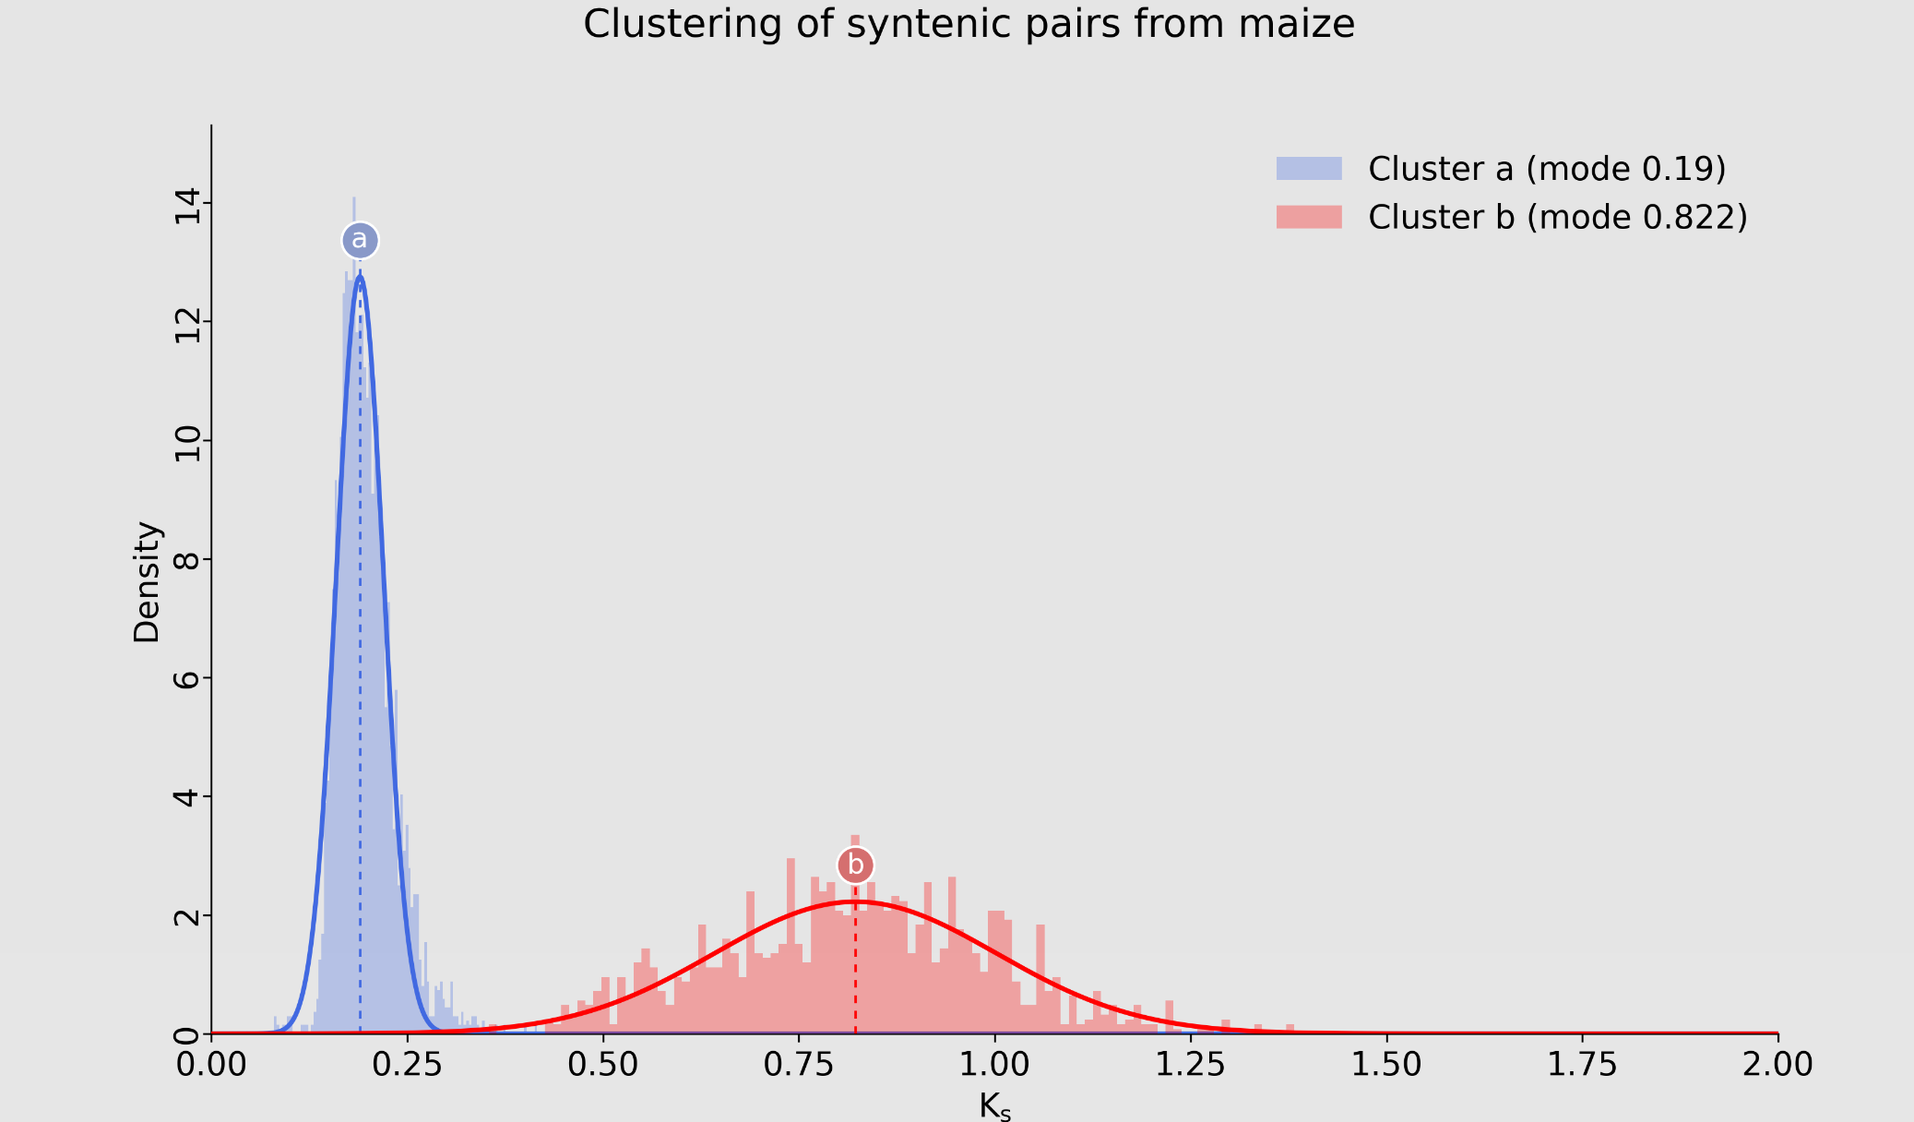
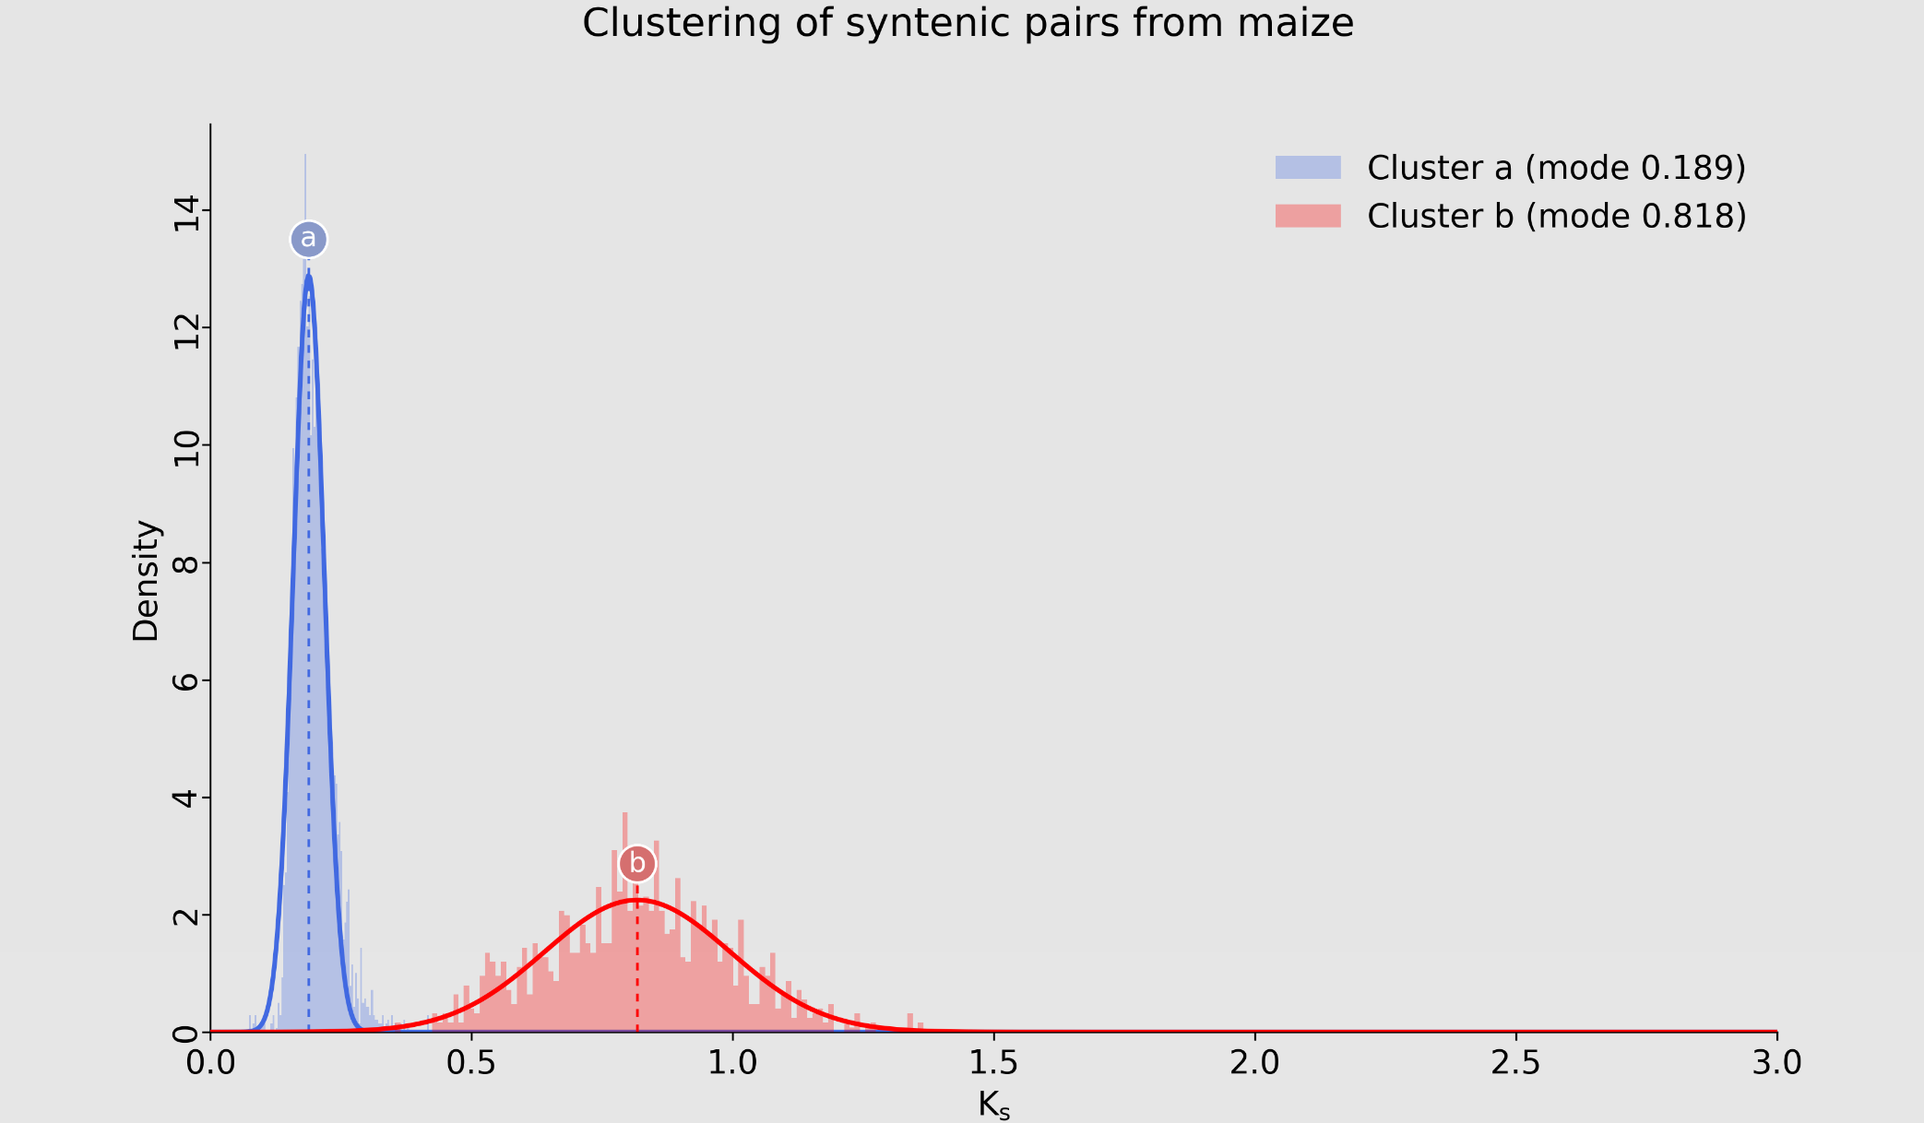
ks_pipeline default parameter; non-chr quality is low; add dotplot blank dot and rm to_rgb func; use best outgroup rather than mean;

diff --git a/quota_anchor/kspeaks/ks_fitting.py b/quota_anchor/kspeaks/ks_fitting.py
@@ -159,7 +159,7 @@ class Kf:
 
     @staticmethod
     def gmm(all_medians_list, n_wgds, max_iter=618, n_init=1):
-        # all_medians_list_logtransformed = np.log(all_medians_list)
+        #all_medians_list = np.log(all_medians_list)
         all_medians_list = np.array(all_medians_list)
         gmm = GaussianMixture(n_components=n_wgds, covariance_type="spherical", max_iter=max_iter, n_init=n_init)
         gmm.fit(all_medians_list.reshape(len(all_medians_list), 1))
@@ -347,8 +347,9 @@ class Kf:
             ctr = float(paras[1])
             # wgd marker zorder > histogram zorder > curve fitting line zorder
             _, _, patches = ax.hist(np.array(cluster_to_all_ks[cluster_id]), linewidth=2, bins=self.bins_number, alpha=0.3,
-                                    color=cluster_color[cluster_id][0], density=True, label=f"Cluster {cluster_color[cluster_id][1]} (mode {round(ctr, 3)})", zorder=zorder-8)
-            map_handle_label.append((patches[0], f"Cluster {cluster_color[cluster_id][1]} (mode {round(ctr, 3)})"))
+                                    color=cluster_color[cluster_id][0], density=True, label=f"Cluster {cluster_color[cluster_id][1]} (mode {round(ctr, 3):.3f})", zorder=zorder-8)
+            map_handle_label.append((patches[0], f"Cluster {cluster_color[cluster_id][1]} (mode {round(ctr, 3):.3f})"))
+
             cluster_info = self.determine_marker_position(cluster_id, paras, cluster_info)
             
             cluster_info[cluster_id].append(zorder-7)
@@ -486,18 +487,18 @@ class Kf:
             ax.set_ylim(-move_tick, y_max)
             ax.spines['left'].set_bounds(0, y_max)
 
-            to_plot = df[["Node", "Focal_Species", "Sister_Species", "Adjusted_Mode_Mean", "Adjusted_Mode_Mean_SD", "Original_Mode"]]
+            to_plot = df[["Node", "Focal_Species", "Sister_Species", "Adjusted_Mode_Best", "Adjusted_Mode_Best_SD", "Original_Mode"]]
             arrow_y = -gap_scale
             z_order = -10
             for index, row in to_plot.iterrows():
                 per_node_number = len(to_plot[to_plot["Node"] == row["Node"]])
                 z_order -= 2
-                node, focal_species, sister_species, mode, sd, original = row.at["Node"], row.at["Focal_Species"], row.at["Sister_Species"], row.at["Adjusted_Mode_Mean"], row.at["Adjusted_Mode_Mean_SD"], row.at["Original_Mode"]
+                node, focal_species, sister_species, mode, sd, original = row.at["Node"], row.at["Focal_Species"], row.at["Sister_Species"], row.at["Adjusted_Mode_Best"], row.at["Adjusted_Mode_Best_SD"], row.at["Original_Mode"]
                 color = color_list[index]
                 if original < mode:
-                    means_label = str(round(original, 2)) + r'$\rightarrow$' + str(round(mode, 2))
+                    means_label = "{:.3f}".format(round(original, 3)) + r'$\rightarrow$' + "{:.3f}".format(round(mode, 3))
                 else:
-                    means_label = str(round(mode, 2)) + r'$\leftarrow$' + str(round(original, 2))
+                    means_label = "{:.3f}".format(round(mode, 3)) + r'$\leftarrow$' + "{:.3f}".format(round(original, 3))
                 label = f"({node}) {sister_species} ({means_label})"
                 self.plot_divergence_line(ax, mode, sd, color, label, -300, y_min_ratio, height=0.88)
                 self.plot_arrow(ax, original, mode, arrow_y, color)
@@ -508,3 +509,4 @@ class Kf:
             self.save_mixed_plot(fig, ax, wgd_handles, wgd_labels, super_title) # type: ignore
             plt.show()
         logger.info("Plot ks fitting info about wgd events and species divergent events finished!")
+

diff --git a/scripts/ks_pipeline.py b/scripts/ks_pipeline.py
@@ -183,10 +183,10 @@ class SpeciesPair:
                             '--strict_strand', "1",
                             '--get_all_collinearity', self.get_all_collinearity_map[self.query_species + "\t" + self.ref_species],
                             '--count_style', "0",
-                            '--tandem_length', "1000",
+                            '--tandem_length', "500",
                             '--overlap_window', "1",
                             '--maximum_gap_size', "25",
-                            '--minimum_chain_score', "3",
+                            '--minimum_chain_score', "4",
                             '--gap_extend_penalty', "-0.005",
                             '--strict_remove_overlap', "0",
                             '--overwrite'
@@ -201,10 +201,10 @@ class SpeciesPair:
                             '--strict_strand', "1",
                             '--get_all_collinearity', self.get_all_collinearity_map[self.query_species + "\t" + self.ref_species],
                             '--count_style', "0",
-                            '--tandem_length', "1000",
+                            '--tandem_length', "500",
                             '--overlap_window', "1",
                             '--maximum_gap_size', "25",
-                            '--minimum_chain_score', "3",
+                            '--minimum_chain_score', "4",
                             '--gap_extend_penalty', "-0.005",
                             '--strict_remove_overlap', "0",
                             ]
@@ -249,6 +249,7 @@ class SpeciesPair:
                             '-d', self.cds_path,
                             '-o', self.ks_path,
                             '-t', str(KS_PROCESS),
+                            '--add_ks'
                             ]
         try:
             result = subprocess.run(command_line, check=True, stderr=subprocess.PIPE, stdout=subprocess.PIPE, text=True)

diff --git a/quota_anchor/lib/classification_gene.py b/quota_anchor/lib/classification_gene.py
@@ -98,6 +98,7 @@ def tandem_init(ref_gene, ref_chr, ref_order, query_gene, query_chr, query_order
     condition = tandem_condition1 and tandem_condition2
     return condition, homo_gn_md, anc, used_gp_dict
 
+# redundant code
 def transposed_pre_df(ref_gene, ref_chr, ref_order, ref_start, query_gene, query_chr, query_order ,query_start, bitscore_dict, identity_dict, pre_df, line_bitscore, line_identity, anc, homo_gn_md):
     if not anc[ref_gene] and anc[query_gene] and homo_gn_md[ref_gene] not in [1, 2, 3]:
         try:
@@ -109,7 +110,7 @@ def transposed_pre_df(ref_gene, ref_chr, ref_order, ref_start, query_gene, query
         except KeyError:
             if query_gene + '\t' + ref_gene in bitscore_dict:
                 pre_df.append([ref_gene, ref_chr, ref_order, ref_start, query_gene, query_chr, query_order, query_start, float(bitscore_dict[query_gene + '\t' + ref_gene]), float(identity_dict[query_gene + '\t' + ref_gene])])
-            else: 
+            else:
                 pre_df.append([ref_gene, ref_chr, ref_order ,ref_start, query_gene, query_chr, query_order ,query_start, float(line_bitscore), float(line_identity)])
         return pre_df
     if not anc[query_gene] and anc[ref_gene] and homo_gn_md[query_gene] not in [1, 2, 3]:

diff --git a/quota_anchor/lib/base.py b/quota_anchor/lib/base.py
@@ -160,6 +160,13 @@ def output_file_parentdir_exist(path, overwrite):
 def get_blank_chr(query_df, ref_df):
     chr_margin = pd.merge(left=ref_df, right=query_df, how="cross")
     chr_margin.columns = ["refChr", "referenceStart",  "refId", "queryChr", "queryStart", "queryId"]
+    chr_margin_copy =  chr_margin.copy()
+    length = len(chr_margin)
+    chr_margin_copy["referenceStart"] = [0] *  length
+    chr_margin_copy["queryStart"] = [0] *  length
+    chr_margin_copy["refId"] = [0] *  length
+    chr_margin_copy["queryId"] = [0] *  length
+    chr_margin = pd.concat([chr_margin, chr_margin_copy], axis=0)
     return chr_margin
 
 def output_info(info):

diff --git a/quota_anchor/lib/dotplot.py b/quota_anchor/lib/dotplot.py
@@ -3,7 +3,6 @@ import sys
 
 from plotnine import *
 from plotnine.exceptions import PlotnineWarning
-from matplotlib.colors import to_rgba
 import pandas as pd
 import numpy as np
 from . import base
@@ -53,7 +52,7 @@ class Dotplot:
 
                 strip_text=element_text(size=50),
                 # strip_background=element_blank()
-                strip_background = element_rect(fill=to_rgba('#C0C0C0', 0.4), color=to_rgba('#696969', 1))
+                strip_background = element_rect(fill="silver", color="black")
             )
 
     @staticmethod

diff --git a/README.md b/README.md
@@ -429,6 +429,7 @@ wget https://ftp.ebi.ac.uk/ensemblgenomes/pub/release-59/plants/gff3/setaria_vir
     1. The `./scripts/ks_pipeline.py` script uses the `Species_1` column of `species_pairs.csv` as the query and the `Species_2` column of `species_pairs.csv` as the reference in the collinearity procedure.
     2. The `./scripts/ks_pipeline.py` script adjusts the parameters of the collinearity procedure based on the `r_value` `q_value` and `get_all_collinear_pairs` columns of the species pairs file.
     3. You may need to understand the meaning of the `r_value`, `q_value` and `get_all_collinear_pairs` parameter via `quota_Anchor col` command or refer to [document](./quota_anchor/doc/longestPathAlogorithm.md).
+    4. If your computing resources are limited and there are 20 species pairs in your `species_pairs.csv`, you can run it multiple times, for example, five times, each running four species pairs (just delete the other 16 rows of species pairs).
 
     ```command
     python ./scripts/ks_pipeline.py -i raw_data -o output_dir -s species_pairs.csv -a diamond -l raw_data --overwrite -plot_table       
@@ -437,14 +438,14 @@ wget https://ftp.ebi.ac.uk/ensemblgenomes/pub/release-59/plants/gff3/setaria_vir
 5. Ks fitting and correction for each species divergent peak.
     Note:
     1. The `0` in `find ./output_dir/02synteny/*0.ks |awk '{printf "%s,", $1}'` represents the value of the `get_all_collinear_pairs` column of the species pair file.
-    2. The order of species pairs in the species pair file(specify by -s parameter, species_pairs.csv) must be consistent with the order of the ks file(specify by -k parameter)
+    2. The order of species pairs in the species pair file(specify by -s parameter, species_pairs.csv) must be consistent with the order of the ks and collinearity file(specify by -k/-col parameter)
 
     ```bash
     find ./output_dir/02synteny/*0.ks |awk '{printf "%s,", $1}'
     ```
 
    ```command
-    quota_Anchor correct -k "./output_dir/02synteny/maize_sorghum0.ks,./output_dir/02synteny/maize_setaria0.ks,./output_dir/02synteny/sorghum_setaria0.ks,./output_dir/02synteny/maize_oryza0.ks,./output_dir/02synteny/sorghum_oryza0.ks,./output_dir/02synteny/setaria_oryza0.ks" -s species_pairs.csv -t ortholog_trios_maize.csv -kr 0,2 -ot outfile_divergent_peaks.csv --overwrite
+    quota_Anchor correct -k "./output_dir/02synteny/maize_sorghum0.ks,./output_dir/02synteny/maize_setaria0.ks,./output_dir/02synteny/sorghum_setaria0.ks,./output_dir/02synteny/maize_oryza0.ks,./output_dir/02synteny/sorghum_oryza0.ks,./output_dir/02synteny/setaria_oryza0.ks" -col "./output_dir/02synteny/maize_sorghum0.collinearity,./output_dir/02synteny/maize_setaria0.collinearity,./output_dir/02synteny/sorghum_setaria0.collinearity,./output_dir/02synteny/maize_oryza0.collinearity,./output_dir/02synteny/sorghum_oryza0.collinearity,./output_dir/02synteny/setaria_oryza0.collinearity" -s species_pairs.csv -t ortholog_trios_maize.csv -kr 0,3 -ot outfile_divergent_peaks.csv --overwrite
    ```
 
 6. Maize wgd ks peaks fitting
@@ -454,7 +455,7 @@ wget https://ftp.ebi.ac.uk/ensemblgenomes/pub/release-59/plants/gff3/setaria_vir
 
     quota_Anchor dotplot -i ./maize/zm_zm.table -o ./maize/zm.zm.png -r ./raw_data/maize.length.txt -q ./raw_data/maize.length.txt -r_label maize -q_label maize -use_identity --overwrite
 
-    quota_Anchor col -i ./maize/zm_zm.table -o ./maize/zm_zm.collinearity -a 1 -m 1000 -W 1 -D 25 -I 5 -E -0.01 -f 0 --overwrite
+    quota_Anchor col -i ./maize/zm_zm.table -o ./maize/zm_zm.collinearity -r 3 -q 3 -m 500 -W 1 -D 25 -I 5 -E -0.005 -f 0 --overwrite
 
     quota_Anchor dotplot -i ./maize/zm_zm.collinearity -o ./maize/zm.zm.collinearity.png -r ./raw_data/maize.length.txt -q ./raw_data/maize.length.txt -r_label maize -q_label maize -use_identity --overwrite
 
@@ -474,7 +475,7 @@ wget https://ftp.ebi.ac.uk/ensemblgenomes/pub/release-59/plants/gff3/setaria_vir
     </p>
 
     ```command
-    quota_Anchor kf -i ./maize/zm_zm.collinearity -r./raw_data/maize.length.txt -q ./raw_data/maize.length.txt -o ./maize/zm.zm.kf.png -k ./maize/zm.zm.ks -f maize -components 2 -kr 0,2 --overwrite
+    quota_Anchor kf -i ./maize/zm_zm.collinearity -r./raw_data/maize.length.txt -q ./raw_data/maize.length.txt -o ./maize/zm.zm.kf.png -k ./maize/zm.zm.ks -f maize -components 2 -kr 0,3 --overwrite
     ```
 
     <p align="center">
@@ -483,7 +484,7 @@ wget https://ftp.ebi.ac.uk/ensemblgenomes/pub/release-59/plants/gff3/setaria_vir
 7. The Gaussian mixture model was used to group wgd gene pairs ks, and kernel density estimation and Gaussian approximation fitting were performed on each component. The initial species divergent peak was obtained by taking the mode of 382 kernel density estimates, and the rate was corrected to the focal species level based on trios.
 
     ```command
-    quota_Anchor kf -i ./maize/zm_zm.collinearity -r ./raw_data/maize.length.txt -q ./raw_data/maize.length.txt -o ./maize/zm.zm.png -k ./maize/zm.zm.ks -components 2 -f maize -correct_file outfile_divergent_peaks.csv -kr 0,2 --overwrite
+    quota_Anchor kf -i ./maize/zm_zm.collinearity -r ./raw_data/maize.length.txt -q ./raw_data/maize.length.txt -o ./maize/zm.zm.png -k ./maize/zm.zm.ks -components 2 -f maize -correct_file outfile_divergent_peaks.csv -kr 0,3 --overwrite
     ```
 
     <p align="center">

diff --git a/README_zh.md b/README_zh.md
@@ -422,6 +422,7 @@ wget https://ftp.ebi.ac.uk/ensemblgenomes/pub/release-59/plants/gff3/setaria_vir
     1. `./scripts/ks_pipeline.py` 这个脚本在共线性过程使用`species_pairs.csv`的`Species_1`列的值作为查询物种,使用Species_2`列的值作为参考物种。
     2. `./scripts/ks_pipeline.py` 脚本会根据`species_pairs.csv`物种对文件的`q_value`,`r_value`和`get_all_collinear_pairs`调整共线性过程的参数。
     3. 你可能需要根据`quota_Anchor col`来了解这三个参数的含义或者参考[文档](./quota_anchor/doc/longestPathAlogorithm_zh.md)。
+    4. 假如你的计算资源紧张且你的`species_pairs.csv`中有20个物种对，你可以分多次运行，比如分五次，一个运行四个物种对（仅仅删除其他十六行的物种对即可）。
 
     ```command
     python ./scripts/ks_pipeline.py -i raw_data -o output_dir -s species_pairs.csv -a diamond -l raw_data --overwrite -plot_table       
@@ -430,14 +431,14 @@ wget https://ftp.ebi.ac.uk/ensemblgenomes/pub/release-59/plants/gff3/setaria_vir
 5. 对于每个分化峰进行拟合，并且基于trios三元组将速率矫正到所关注物种玉米的进化速率上。
     注:
     1. `find ./output_dir/02synteny/*0.ks |awk '{printf "%s,", $1}'` 命令中的`0`表示物种对文件的`get_all_collinear_pairs` 列的值。
-    2. 物种对文件（由-s参数指定，species_pairs.csv）中物种对的顺序必须与ks文件（由-k参数指定）的顺序一致
+    2. 物种对文件（由-s参数指定，species_pairs.csv）中物种对的顺序必须与ks文件以及共线性文件（由-k和-col参数指定）的顺序一致
 
     ```bash
     find ./output_dir/02synteny/*0.ks |awk '{printf "%s,", $1}'
     ```
 
    ```command
-    quota_Anchor correct -k "./output_dir/02synteny/maize_sorghum0.ks,./output_dir/02synteny/maize_setaria0.ks,./output_dir/02synteny/sorghum_setaria0.ks,./output_dir/02synteny/maize_oryza0.ks,./output_dir/02synteny/sorghum_oryza0.ks,./output_dir/02synteny/setaria_oryza0.ks" -s species_pairs.csv -t ortholog_trios_maize.csv -kr 0,2 -ot outfile_divergent_peaks.csv --overwrite
+    quota_Anchor correct -k "./output_dir/02synteny/maize_sorghum0.ks,./output_dir/02synteny/maize_setaria0.ks,./output_dir/02synteny/sorghum_setaria0.ks,./output_dir/02synteny/maize_oryza0.ks,./output_dir/02synteny/sorghum_oryza0.ks,./output_dir/02synteny/setaria_oryza0.ks" -col "./output_dir/02synteny/maize_sorghum0.collinearity,./output_dir/02synteny/maize_setaria0.collinearity,./output_dir/02synteny/sorghum_setaria0.collinearity,./output_dir/02synteny/maize_oryza0.collinearity,./output_dir/02synteny/sorghum_oryza0.collinearity,./output_dir/02synteny/setaria_oryza0.collinearity" -s species_pairs.csv -t ortholog_trios_maize.csv -kr 0,3 -ot outfile_divergent_peaks.csv --overwrite
    ```
 
 6. 玉米全基因组复制事件共线性基因对ks值柱形图及高斯核密度评估曲线。
@@ -447,7 +448,7 @@ wget https://ftp.ebi.ac.uk/ensemblgenomes/pub/release-59/plants/gff3/setaria_vir
 
     quota_Anchor dotplot -i ./maize/zm_zm.table -o ./maize/zm.zm.png -r ./raw_data/maize.length.txt -q ./raw_data/maize.length.txt -r_label maize -q_label maize -use_identity --overwrite
 
-    quota_Anchor col -i ./maize/zm_zm.table -o ./maize/zm_zm.collinearity -a 1 -m 1000 -W 1 -D 25 -I 5 -E -0.01 -f 0 --overwrite
+    quota_Anchor col -i ./maize/zm_zm.table -o ./maize/zm_zm.collinearity -r 3 -q 3 -m 500 -W 1 -D 25 -I 5 -E -0.005 -f 0 --overwrite
 
     quota_Anchor dotplot -i ./maize/zm_zm.collinearity -o ./maize/zm.zm.collinearity.png -r ./raw_data/maize.length.txt -q ./raw_data/maize.length.txt -r_label maize -q_label maize -use_identity --overwrite
 
@@ -467,7 +468,7 @@ wget https://ftp.ebi.ac.uk/ensemblgenomes/pub/release-59/plants/gff3/setaria_vir
     你需要根据`zm.zm.table.png`或者其他方法提供玉米wgd峰值的数量。
 
     ```command
-    quota_Anchor kf -i ./maize/zm_zm.collinearity -r ./raw_data/maize.length.txt -q ./raw_data/maize.length.txt -o ./maize/zm.zm.kf.png --overwrite -k ./maize/zm.zm.ks -components 2 -f maize -kr 0,2
+    quota_Anchor kf -i ./maize/zm_zm.collinearity -r ./raw_data/maize.length.txt -q ./raw_data/maize.length.txt -o ./maize/zm.zm.kf.png --overwrite -k ./maize/zm.zm.ks -components 2 -f maize -kr 0,3
     ```
 
     <p align="center">
@@ -477,7 +478,7 @@ wget https://ftp.ebi.ac.uk/ensemblgenomes/pub/release-59/plants/gff3/setaria_vir
 7. 利用高斯混合模型对wgd基因对ks进行分组，对各组分进行核密度估计和高斯近似拟合，取382次核密度估计的众数为最初的物种分化峰，并基于三重奏将分化峰校正至焦点物种水平。
 
     ```command
-    quota_Anchor kf -i ./maize/zm_zm.collinearity -r ./raw_data/maize.length.txt -q ./raw_data/maize.length.txt -o ./maize/zm.zm.png --overwrite -k ./maize/zm.zm.ks -components 2 -f maize -correct_file outfile_divergent_peaks.csv -kr 0,2
+    quota_Anchor kf -i ./maize/zm_zm.collinearity -r ./raw_data/maize.length.txt -q ./raw_data/maize.length.txt -o ./maize/zm.zm.png --overwrite -k ./maize/zm.zm.ks -components 2 -f maize -correct_file outfile_divergent_peaks.csv -kr 0,3
     ```
 
     <p align="center">

diff --git a/quota_anchor/doc/FAQ.md b/quota_anchor/doc/FAQ.md
@@ -4,3 +4,9 @@
 
 1. The software uses the regex: `r'^(\S+)\t(\S+)\tCDS\t(\d+)\t+(\d+)\t+(\S+)\t+(\S+)\t+(\S+)\t+.*Parent=([\s\S]+?);'` and `r'^(\S+)\t(\S+)\tCDS\t(\d+)\t+(\d+)\t+(\S+)\t+(\S+)\t+(\S+)\t+.*Parent=([\S\s]+?)$'` to parse the CDS feature lines in the gff file.
 2. The software uses the regex: `r'^(\S+)\t(\S+)\t\S+\t(\d+)\t+(\d+)\t+(\S+)\t+(\S+)\t+(\S+)\t+.*ID=([\s\S]+?);Parent=([\s\S]+?);'` and `r'^(\S+)\t(\S+)\t\S+\t(\d+)\t+(\d+)\t+(\S+)\t+(\S+)\t+(\S+)\t+.*ID=([\s\S]+?);Parent=([\s\S]+?)$'` to parse the mRNA feature lines in the gff file.
+
+## The annotation quality of non-chromosome segments in GFF files is poor, and gffread fails to run. Delete the annotation lines of non-chromosome sequences in GFF files
+
+<p align="center">
+<img src="../plots/faq.ctg.error.png" alt= faq.ctg.error.png width="800px" background-color="#ffffff" />
+</p>

diff --git a/quota_anchor/doc/FAQ_zh.md b/quota_anchor/doc/FAQ_zh.md
@@ -4,3 +4,9 @@
 
 1. 软件使用正则表达式: `r'^(\S+)\t(\S+)\tCDS\t(\d+)\t+(\d+)\t+(\S+)\t+(\S+)\t+(\S+)\t+.*Parent=([\s\S]+?);'` and `r'^(\S+)\t(\S+)\tCDS\t(\d+)\t+(\d+)\t+(\S+)\t+(\S+)\t+(\S+)\t+.*Parent=([\S\s]+?)$'` 解析GFF文件中第三列为编码序列的行.
 2. 软件使用正则表达式: `r'^(\S+)\t(\S+)\t\S+\t(\d+)\t+(\d+)\t+(\S+)\t+(\S+)\t+(\S+)\t+.*ID=([\s\S]+?);Parent=([\s\S]+?);'` and `r'^(\S+)\t(\S+)\t\S+\t(\d+)\t+(\d+)\t+(\S+)\t+(\S+)\t+(\S+)\t+.*ID=([\s\S]+?);Parent=([\s\S]+?)$'` 解析GFF文件中第三列为mRNA的行.
+
+## GFF文件非染色体片段注释质量差，gffread运行失败，删除GFF文件中的非染色体序列的注释行
+
+<p align="center">
+<img src="../plots/faq.ctg.error.png" alt= faq.ctg.error.png width="800px" background-color="#ffffff" />
+</p>
